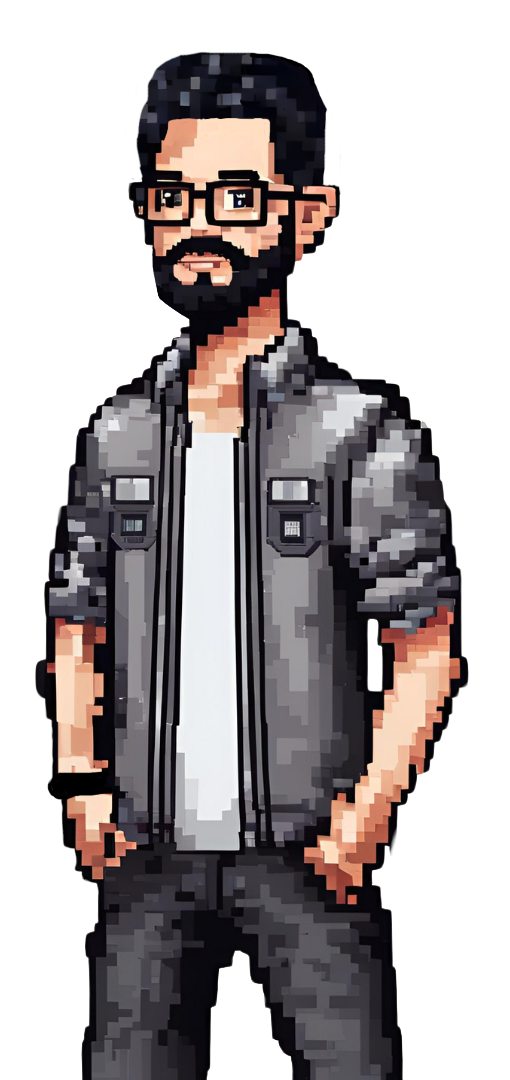
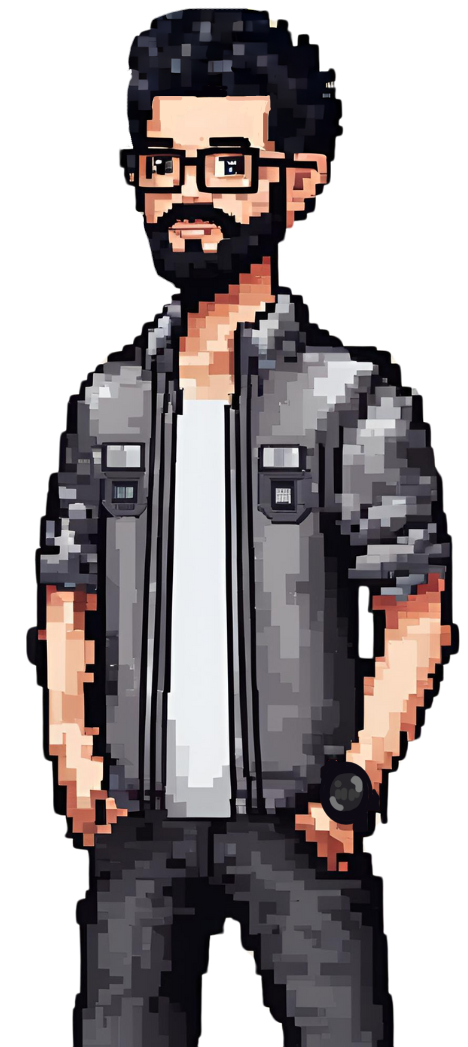
feature about

diff --git a/src/app/components/home/header/header.component.scss b/src/app/components/home/header/header.component.scss
@@ -1,5 +1,5 @@
 .header_area{
-    height: 90vh;
+    height: 100vh;
     position: relative;
     display: flex;
     align-items: center;
@@ -43,6 +43,10 @@ a{
 }
 .person{
     width: 70%;
+    filter: drop-shadow(5px 0 5px var(--primary-color));
+    animation-name: shine;
+    animation-duration: 7s;
+    animation-iteration-count: infinite;
 }
 .border_person_bottom{
     width: 100%;
@@ -62,5 +66,28 @@ a{
 
     100% {
         margin: 0;
+    }
+}
+
+@keyframes shine {
+    0% {
+        filter: drop-shadow(5px 0 5px var(--primary-color));
+    }
+
+    25% {
+        filter: drop-shadow(5px 0 15px rgb(240, 240, 194));
+    }
+    50% {
+        filter: drop-shadow(5px 0 30px rgb(182, 111, 111));
+    }
+    75%{
+        filter: drop-shadow(5px 0 15px rgb(143, 192, 255));
+    }
+    80%{
+        filter: drop-shadow(5px 0 5px rgb(179, 245, 179));
+    }
+
+    100% {
+        filter: drop-shadow(5px 0 5px var(--primary-color));
     }
 }

diff --git a/src/app/components/layouts/navbar/navbar.component.html b/src/app/components/layouts/navbar/navbar.component.html
@@ -10,18 +10,19 @@
             <a class="nav-link active" aria-current="page" href="#header_area">Home</a>
           </li>
           <li class="nav-item">
+            <a class="nav-link" href="#about_area">Sobre</a>
+          </li>
+          <li class="nav-item">
             <a class="nav-link" href="#skill_area">Skills</a>
             
           </li>
           <li class="nav-item">
-            <a class="nav-link" href="#">Sobre</a>
+            <a class="nav-link" href="#service_area">Serviços</a>
           </li>
           <li class="nav-item">
             <a class="nav-link" href="#">Projetos</a>
           </li>
-          <li class="nav-item">
-            <a class="nav-link" href="#">Serviços</a>
-          </li>
+         
          
           <li class="nav-item">
             <a class="nav-link" href="#">Experiência e Formação</a>

diff --git a/src/app/components/home/about/about.component.scss b/src/app/components/home/about/about.component.scss
@@ -20,3 +20,40 @@ h2{
 .about_me{
     width: 50%;
 }
+.circuit{
+    position: absolute;
+    width: 40%;
+    opacity: .1;
+    animation-name: shine;
+    animation-duration: 3s;
+    animation-iteration-count: infinite;
+    z-index: -10;
+}
+#first_circuit{
+    left: 0;
+    top: 0;
+}
+#second_circuit{
+    right: 0;
+    bottom: 0;
+    transform: rotate(180deg);
+}
+@keyframes shine {
+    0% {
+        opacity: .1;
+    }
+
+    25% {
+        opacity: .3;
+    }
+    50% {
+        opacity: .5;
+    }
+    75%{
+        opacity: .3;
+    }
+
+    100% {
+        opacity: .1;
+    }
+}

diff --git a/src/app/components/home/skill/skill.component.ts b/src/app/components/home/skill/skill.component.ts
@@ -11,10 +11,11 @@ import { skills } from '../../../data/skills';
 })
 export class SkillComponent {
   @ViewChild('description') descriptionElement!: ElementRef;
+  @ViewChild('skill_area') skillArea!: ElementRef;
   xp: number = 0;
 
   ngAfterViewInit() {
-    document.addEventListener('click', () => {
+    this.skillArea.nativeElement.addEventListener('click', () => {
       new Audio('assets/audios/elephant.mp3').play()
     }, { once: true }); 
   }

diff --git a/src/app/components/home/service/service.component.html b/src/app/components/home/service/service.component.html
@@ -1,4 +1,4 @@
-<section class="service_area">
+<section class="service_area" id="service_area">
     <div class="container d-flex justify-content-center flex-column align-items-center">
         <h2 class="mt-4 title_section">Meus serviços</h2>
         <p>Serviços somente na modalidade home office</p>

diff --git a/src/app/components/home/skill/skill.component.html b/src/app/components/home/skill/skill.component.html
@@ -1,4 +1,4 @@
-<section class="skill_area" id="skill_area">
+<section class="skill_area" id="skill_area" #skill_area>
     <section class="container d-flex align-items-center">
         <div class="skills">
             <h2 class="title_section">Habilidades Técnicas</h2>

diff --git a/src/app/components/home/about/about.component.html b/src/app/components/home/about/about.component.html
@@ -17,7 +17,8 @@
      
     </section>
 
-   
+    <img class="circuit" id="first_circuit" src="assets/img/background/circuit.png" alt="">
+    <img class="circuit" id="second_circuit" src="assets/img/background/circuit.png" alt="">
     
 
    

diff --git a/src/app/components/layouts/navbar/navbar.component.scss b/src/app/components/layouts/navbar/navbar.component.scss
@@ -1,3 +1,8 @@
 .navbar{
     background-color: #0A0A15 !important;
+    position: fixed;
+    width: 100%;
+    left: 0;
+    top: 0;
+    z-index: 10;
 }
